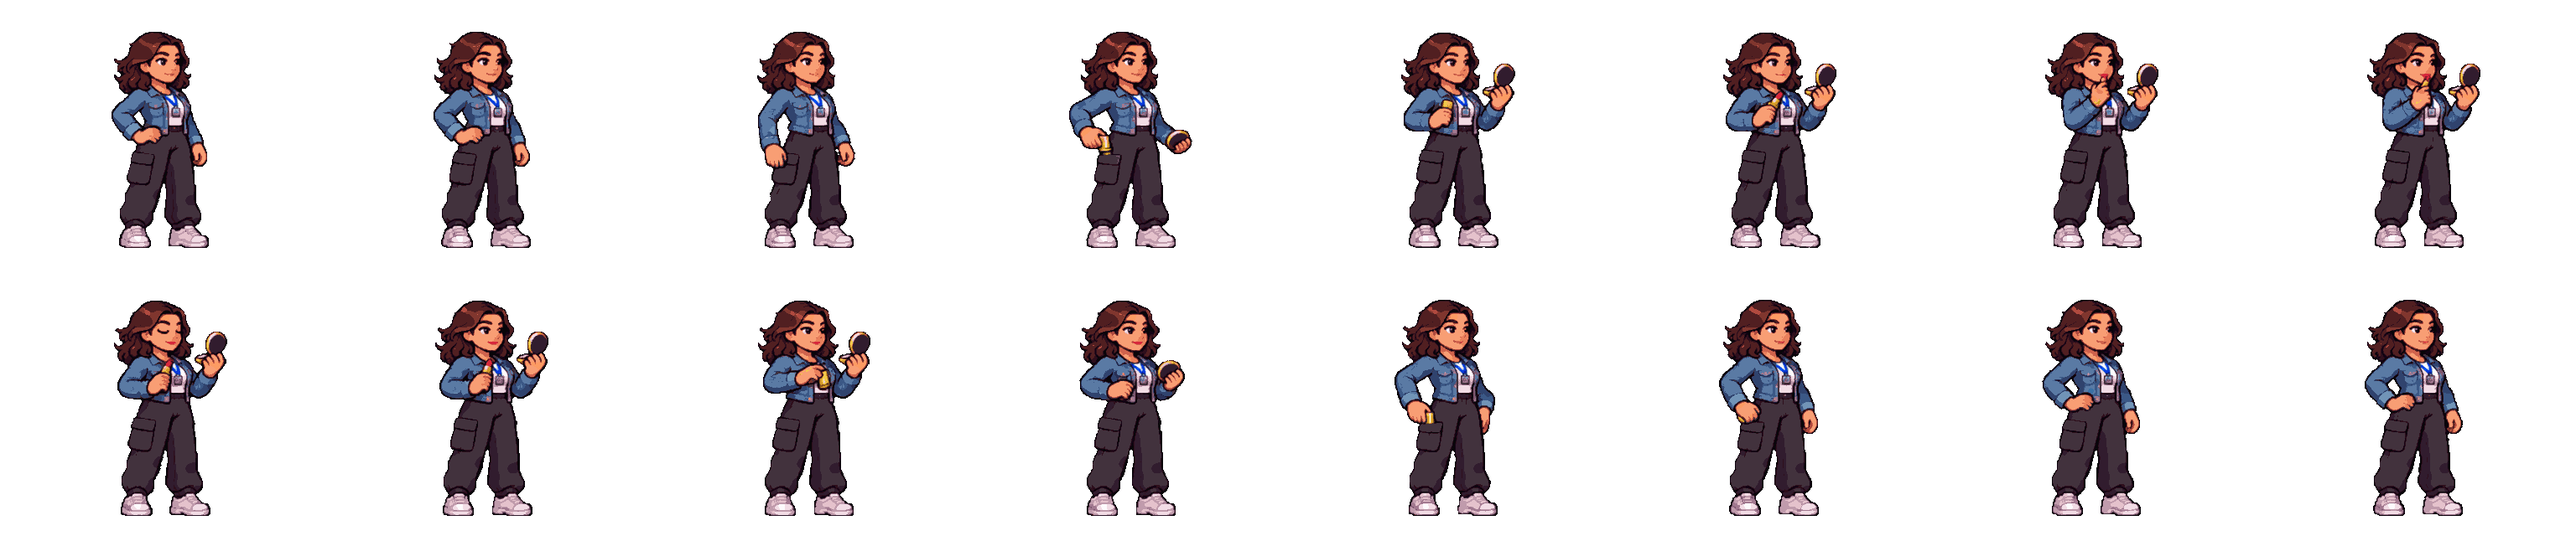
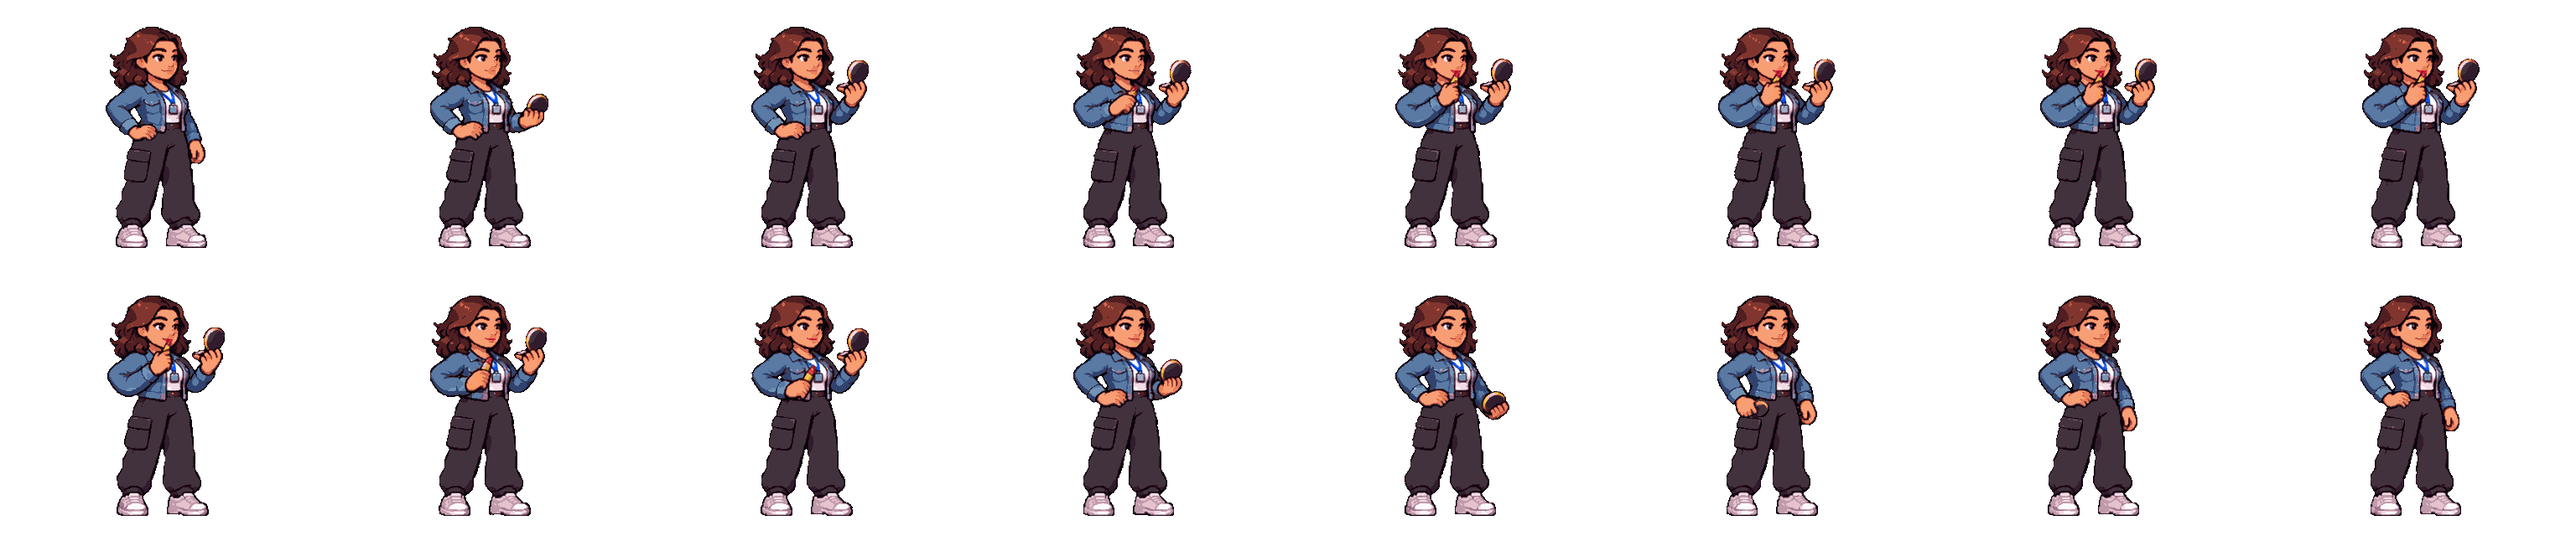
Zee: makeup idle rebuilt from the idle in every view, front dodge is a real floor roll, front/back punches use both hands

diff --git a/src/main.js b/src/main.js
@@ -1,14 +1,14 @@
 // Game shell: loads Zee, runs the loop, draws the placeholder office + HUD, wires pause / touch UI.
-import { CONFIG } from './config.js?v=202611271531';
-import { loadCharacter, VERSION, LOOK, setLight } from './assets.js?v=202611271531';
-import { Input } from './input.js?v=202611271531';
-import { Zee } from './zee.js?v=202611271531';
-import { Game } from './game.js?v=202611271531';
-import { ENEMY_IDS } from './enemy.js?v=202611271531';
-import { drawHud as drawArcadeHud } from './hud.js?v=202611271531';
-import { Level, qualityDepartment } from './level.js?v=202611271531';
-import { Camera } from './camera.js?v=202611271531';
-import { unlock } from './sfx.js?v=202611271531';
+import { CONFIG } from './config.js?v=202611271610';
+import { loadCharacter, VERSION, LOOK, setLight } from './assets.js?v=202611271610';
+import { Input } from './input.js?v=202611271610';
+import { Zee } from './zee.js?v=202611271610';
+import { Game } from './game.js?v=202611271610';
+import { ENEMY_IDS } from './enemy.js?v=202611271610';
+import { drawHud as drawArcadeHud } from './hud.js?v=202611271610';
+import { Level, qualityDepartment } from './level.js?v=202611271610';
+import { Camera } from './camera.js?v=202611271610';
+import { unlock } from './sfx.js?v=202611271610';
 
 const { w: W, h: H } = CONFIG.view;
 const canvas = document.getElementById('game');

diff --git a/src/level.js b/src/level.js
@@ -20,8 +20,8 @@
 //   light: { rim, rimAlpha, rimPx, lightX, lightY, wash, washAlpha, feet } = how Zee and the enemies are lit in this room
 //   (rim / wash are [r,g,b]); the game eases from one room's light to the next (see setLight in assets.js).
 //   doorRight is the door to the NEXT room: while it is locked the player cannot pass it; no door (or unlocked) = open.
-import { CONFIG } from './config.js?v=202611271531';
-import { VERSION } from './assets.js?v=202611271531';
+import { CONFIG } from './config.js?v=202611271610';
+import { VERSION } from './assets.js?v=202611271610';
 
 const C = CONFIG.camera, F = CONFIG.floor;
 export const LAYER_H = 507;                       // layer height in pixels (the view shows 506.25)

diff --git a/src/game.js b/src/game.js
@@ -1,9 +1,9 @@
 // Game world: Zee + enemies, combat resolution, projectiles and all the "juice" (hit flash, sparks, shake, hit-stop, sound).
-import { CONFIG } from './config.js?v=202611271531';
-import { Enemy } from './enemy.js?v=202611271531';
-import { SOFT } from './zee.js?v=202611271531';
-import { sfx } from './sfx.js?v=202611271531';
-import { drawAnim } from './assets.js?v=202611271531';
+import { CONFIG } from './config.js?v=202611271610';
+import { Enemy } from './enemy.js?v=202611271610';
+import { SOFT } from './zee.js?v=202611271610';
+import { sfx } from './sfx.js?v=202611271610';
+import { drawAnim } from './assets.js?v=202611271610';
 
 const E = CONFIG.enemy;
 

diff --git a/src/enemy.js b/src/enemy.js
@@ -1,8 +1,8 @@
 // Enemy: a fighter with a small brain. It lines up with Zee, flanks, chains combos, sidesteps her swings, punishes her recovery,
 // throws call-centre headsets, and (navy + sporty, the "heavies") grabs and throws her.
 // Art comes from assets/characters/<id>/ ; every enemy shares this one brain.
-import { CONFIG } from './config.js?v=202611271531';
-import { frameAt, drawAnim, drawShadow, LOOK } from './assets.js?v=202611271531';
+import { CONFIG } from './config.js?v=202611271610';
+import { frameAt, drawAnim, drawShadow, LOOK } from './assets.js?v=202611271610';
 
 const E = CONFIG.enemy;
 const rnd = (a, b) => a + Math.random() * (b - a);

diff --git a/src/hud.js b/src/hud.js
@@ -1,8 +1,8 @@
 // Arcade HUD (early-2000s style): angled panels with white outlines, glossy bars, bold italic type.
 // Built from separate pieces drawn in game units, so it scales with the canvas at any resolution.
 // Top-left: portrait + HP bar + SP meter. Bottom-left: KO counter. All values come from the live game state.
-import { CONFIG } from './config.js?v=202611271531';
-import { VERSION } from './assets.js?v=202611271531';
+import { CONFIG } from './config.js?v=202611271610';
+import { VERSION } from './assets.js?v=202611271610';
 
 const portrait = new Image();
 portrait.src = 'assets/ui/zee_portrait.png?v=' + VERSION;

diff --git a/src/zee.js b/src/zee.js
@@ -1,7 +1,7 @@
 // Zee: the player character. A small state machine driven by input actions.
 // Movement, combat timing, and animation selection live here; art comes from the manifest (assets.js).
-import { CONFIG } from './config.js?v=202611271531';
-import { frameAt, drawAnim, drawShadow, LOOK } from './assets.js?v=202611271531';
+import { CONFIG } from './config.js?v=202611271610';
+import { frameAt, drawAnim, drawShadow, LOOK } from './assets.js?v=202611271610';
 
 const C = CONFIG.zee;
 // Front and back sheets are drawn as seen by the camera, so they are never mirrored (her badge and hand stay on the correct side).

diff --git a/src/camera.js b/src/camera.js
@@ -1,7 +1,7 @@
 // The world camera. The world is drawn through a zoomed-out camera (CONFIG.camera.zoom, about 0.71): 900 x 506 world units
 // are visible and rendered into the 640 x 360 screen. The camera follows Zee horizontally (with a little look-ahead in the
 // direction she faces) and is clamped to the level. It never scrolls vertically: the world is exactly one screen tall.
-import { CONFIG } from './config.js?v=202611271531';
+import { CONFIG } from './config.js?v=202611271610';
 
 export class Camera {
   constructor() { this.x = 0; this.px = 0; this.gx = 0; this.look = 0; this.ready = false; }

diff --git a/src/assets.js b/src/assets.js
@@ -1,6 +1,6 @@
 // Loads a character's manifest + strips and turns them into ready-to-play animation objects.
 // To swap art, replace the PNG strips / manifest in assets/characters/<name>/ - no code changes needed.
-import { CONFIG } from './config.js?v=202611271531';
+import { CONFIG } from './config.js?v=202611271610';
 
 // Release stamp, taken from this module's own URL (?v=...): every release uses new URLs so browsers never serve stale files.
 export const VERSION = new URL(import.meta.url).searchParams.get('v') || 'dev';

diff --git a/index.html b/index.html
@@ -93,7 +93,7 @@
 <div id="rotate"><div><h2>Rotate your phone</h2><p style="color:var(--mute)">This game plays in landscape.</p></div></div>
 <div id="loading"><div><div class="lt">CALL TERMINATED</div><div class="ls">is loading...</div></div></div>
 
-<script type="module" src="src/main.js?v=202611271531"></script>
+<script type="module" src="src/main.js?v=202611271610"></script>
 </body>
 </html>
 

diff --git a/src/input.js b/src/input.js
@@ -1,6 +1,6 @@
 // Unified input: keyboard on PC/laptop, floating joystick + buttons on touch devices.
 // The game only reads: input.axis (x,y in -1..1), input.run, and input.consume() (one-shot actions).
-import { CONFIG } from './config.js?v=202611271531';
+import { CONFIG } from './config.js?v=202611271610';
 
 export class Input {
   constructor(root = document) {

diff --git a/HANDOFF.md b/HANDOFF.md
@@ -68,3 +68,8 @@ Zee now has brown wavy shoulder-length hair (no hijab). Master: sprites/zee/mast
 ## Zee four directions (2026-11-27)
 zee.view = side/front/back (zee.js _dir() falls back to the side animation when <name>_front/_back is missing; front/back are never mirrored).
 Masters: sprites/zee/master/zee_master_front_v1.png, _back_v1.png. All 10 moves exist front and back (idle, idle_makeup, walk, run, jump, punch_1-3, jump_kick, dodge); raw sheets sprites/zee/raw/<move>_front_v1.png / _back_v1.png, sizes in tools/zee-views.json (matched to the side view by hair size and height). Special, hurt, knockdown, get up, victory, interact and prone stay side view. Front/back attacks hit along the floor depth (game.js _zeeAttacks). Enemies get four directions later, when the user asks.
+
+## Zee redo (2026-11-27)
+- Makeup idle in every view was rebuilt FROM the idle frame of that view (ref = first idle cell, only arms/hands/props move): idle_makeup_v5.png (side), idle_makeup_front_v2.png, idle_makeup_back_v2.png. Built at the idle's height and baseline; ShiftX lines up the legs (zee-sheets.ps1).
+- dodge_front_v2: a real floor somersault toward the camera.
+- Front/back punches use both hands: punch_1 = left jab, punch_2 = right cross, punch_3 = two-fisted double punch (punch_*_front_v2 / _back_v2). Sizes in tools/zee-views.json.
